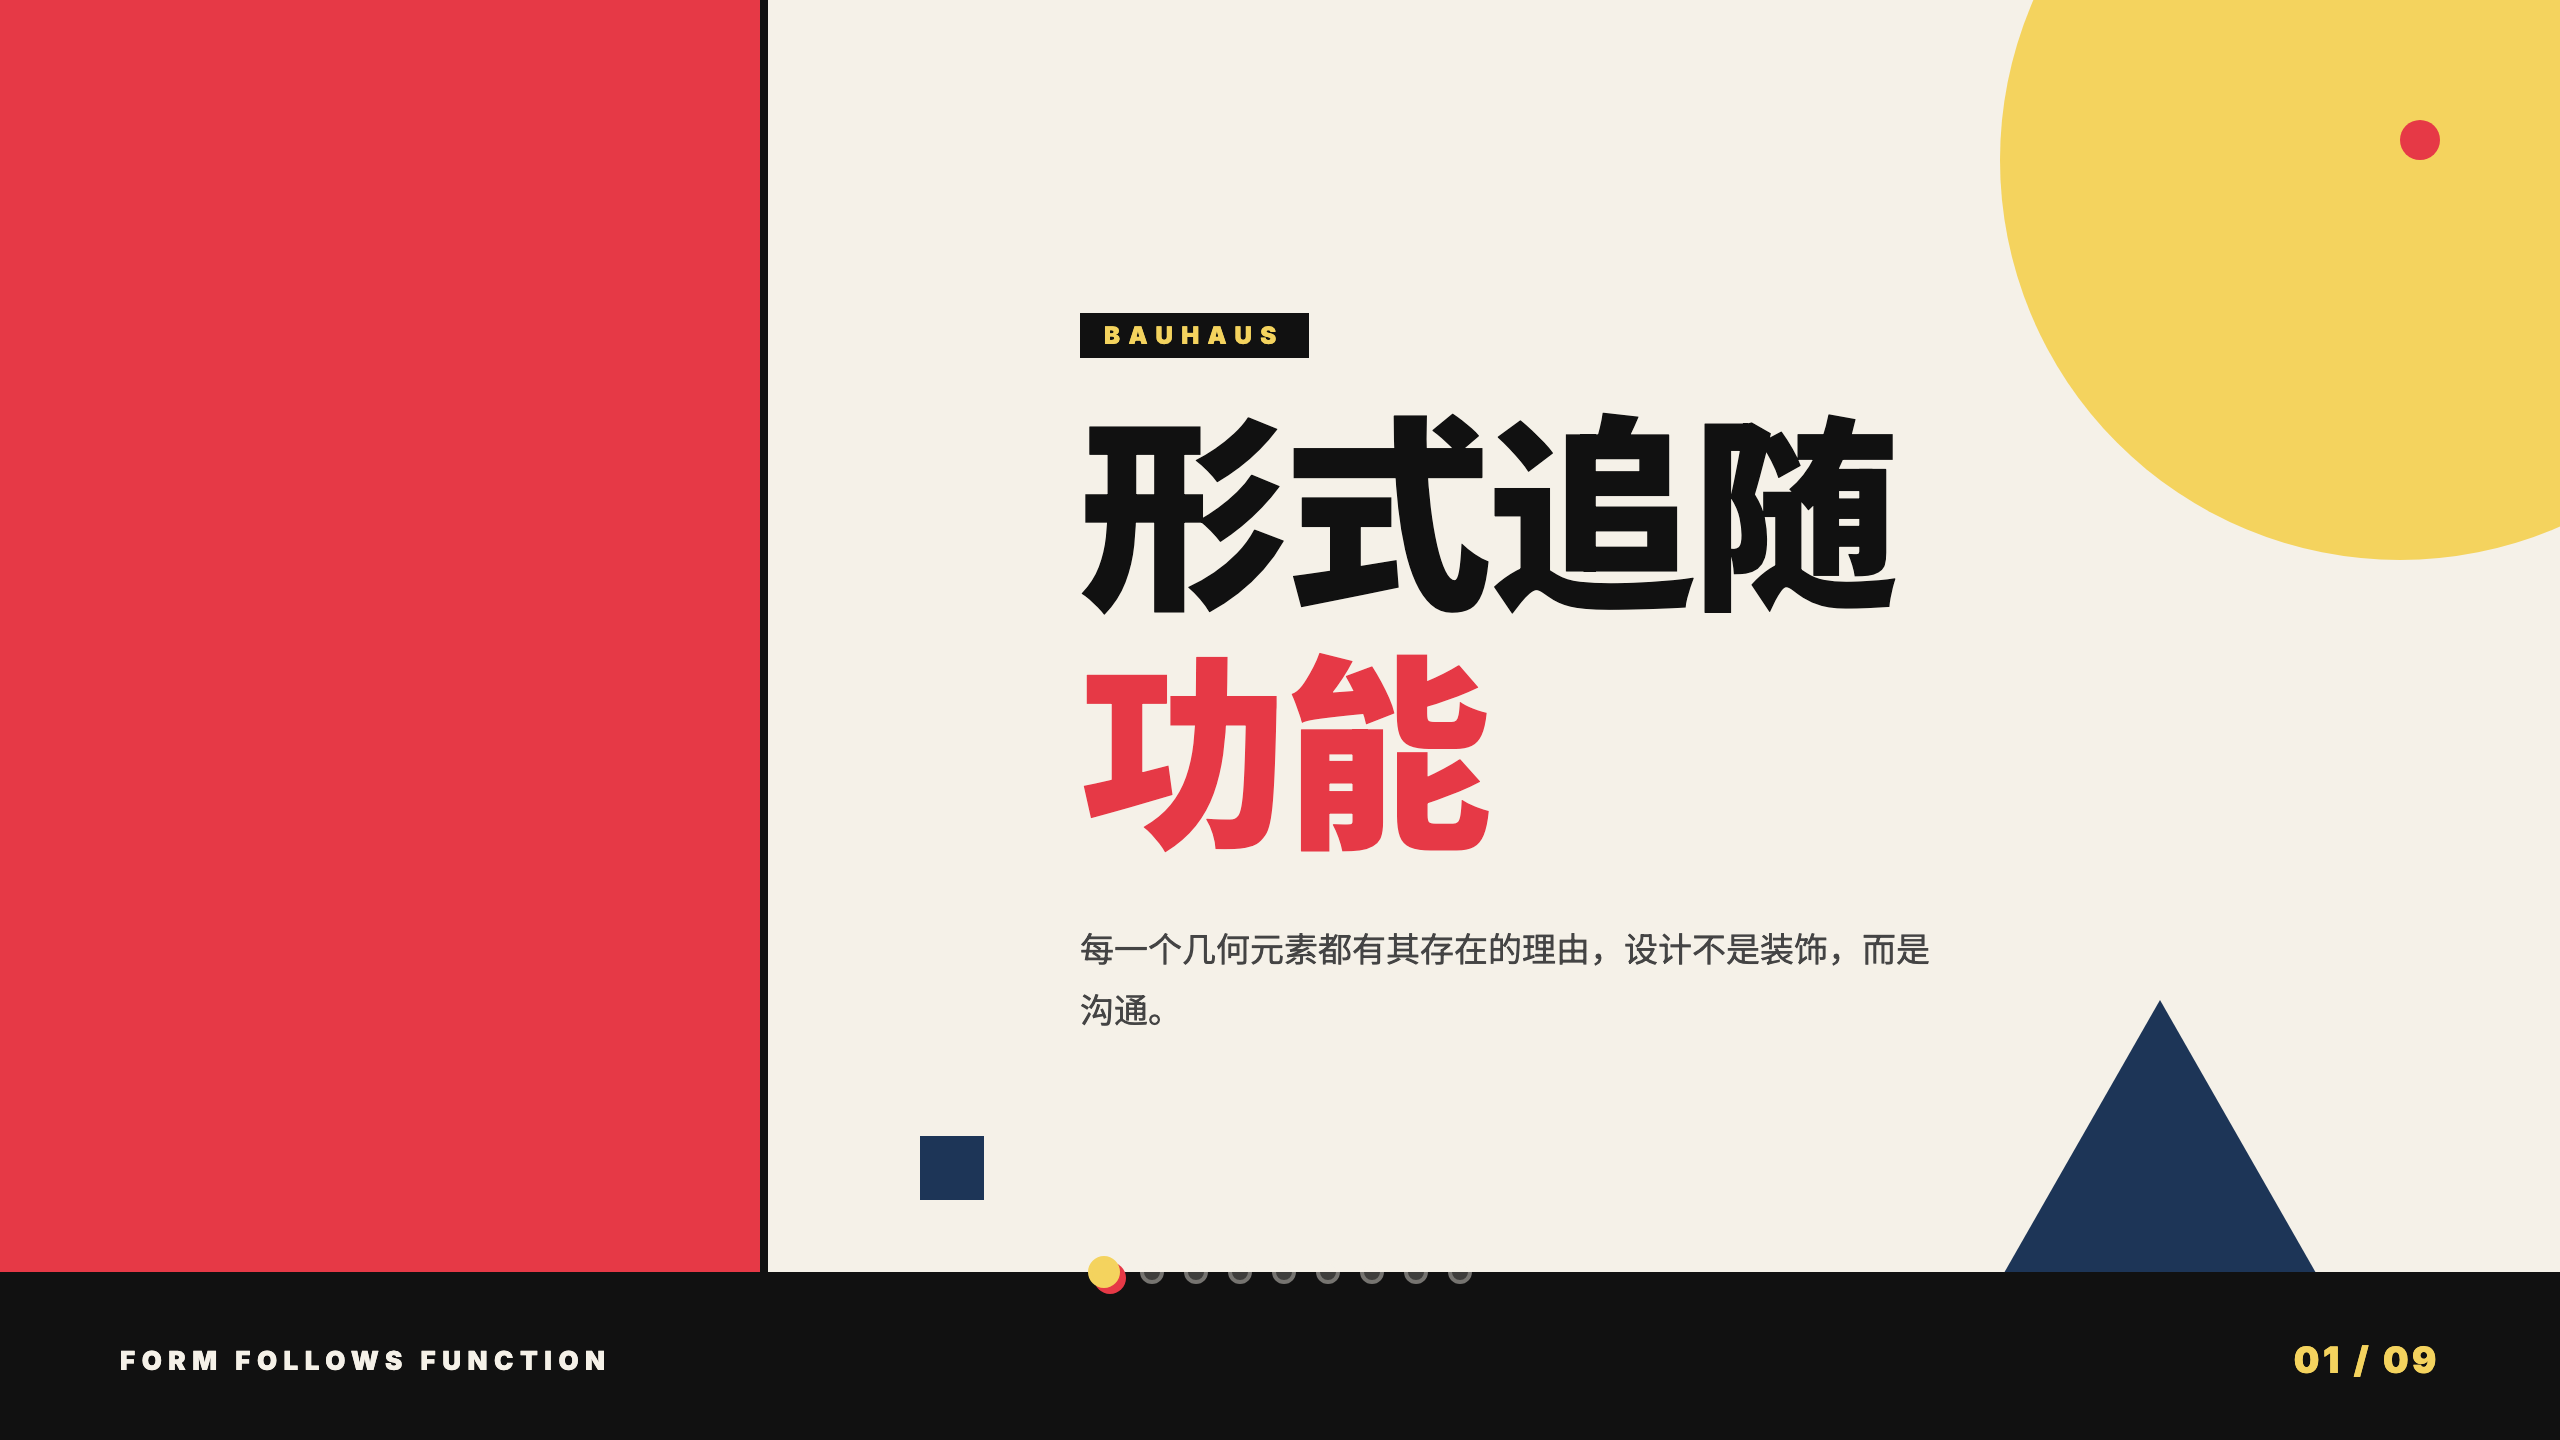
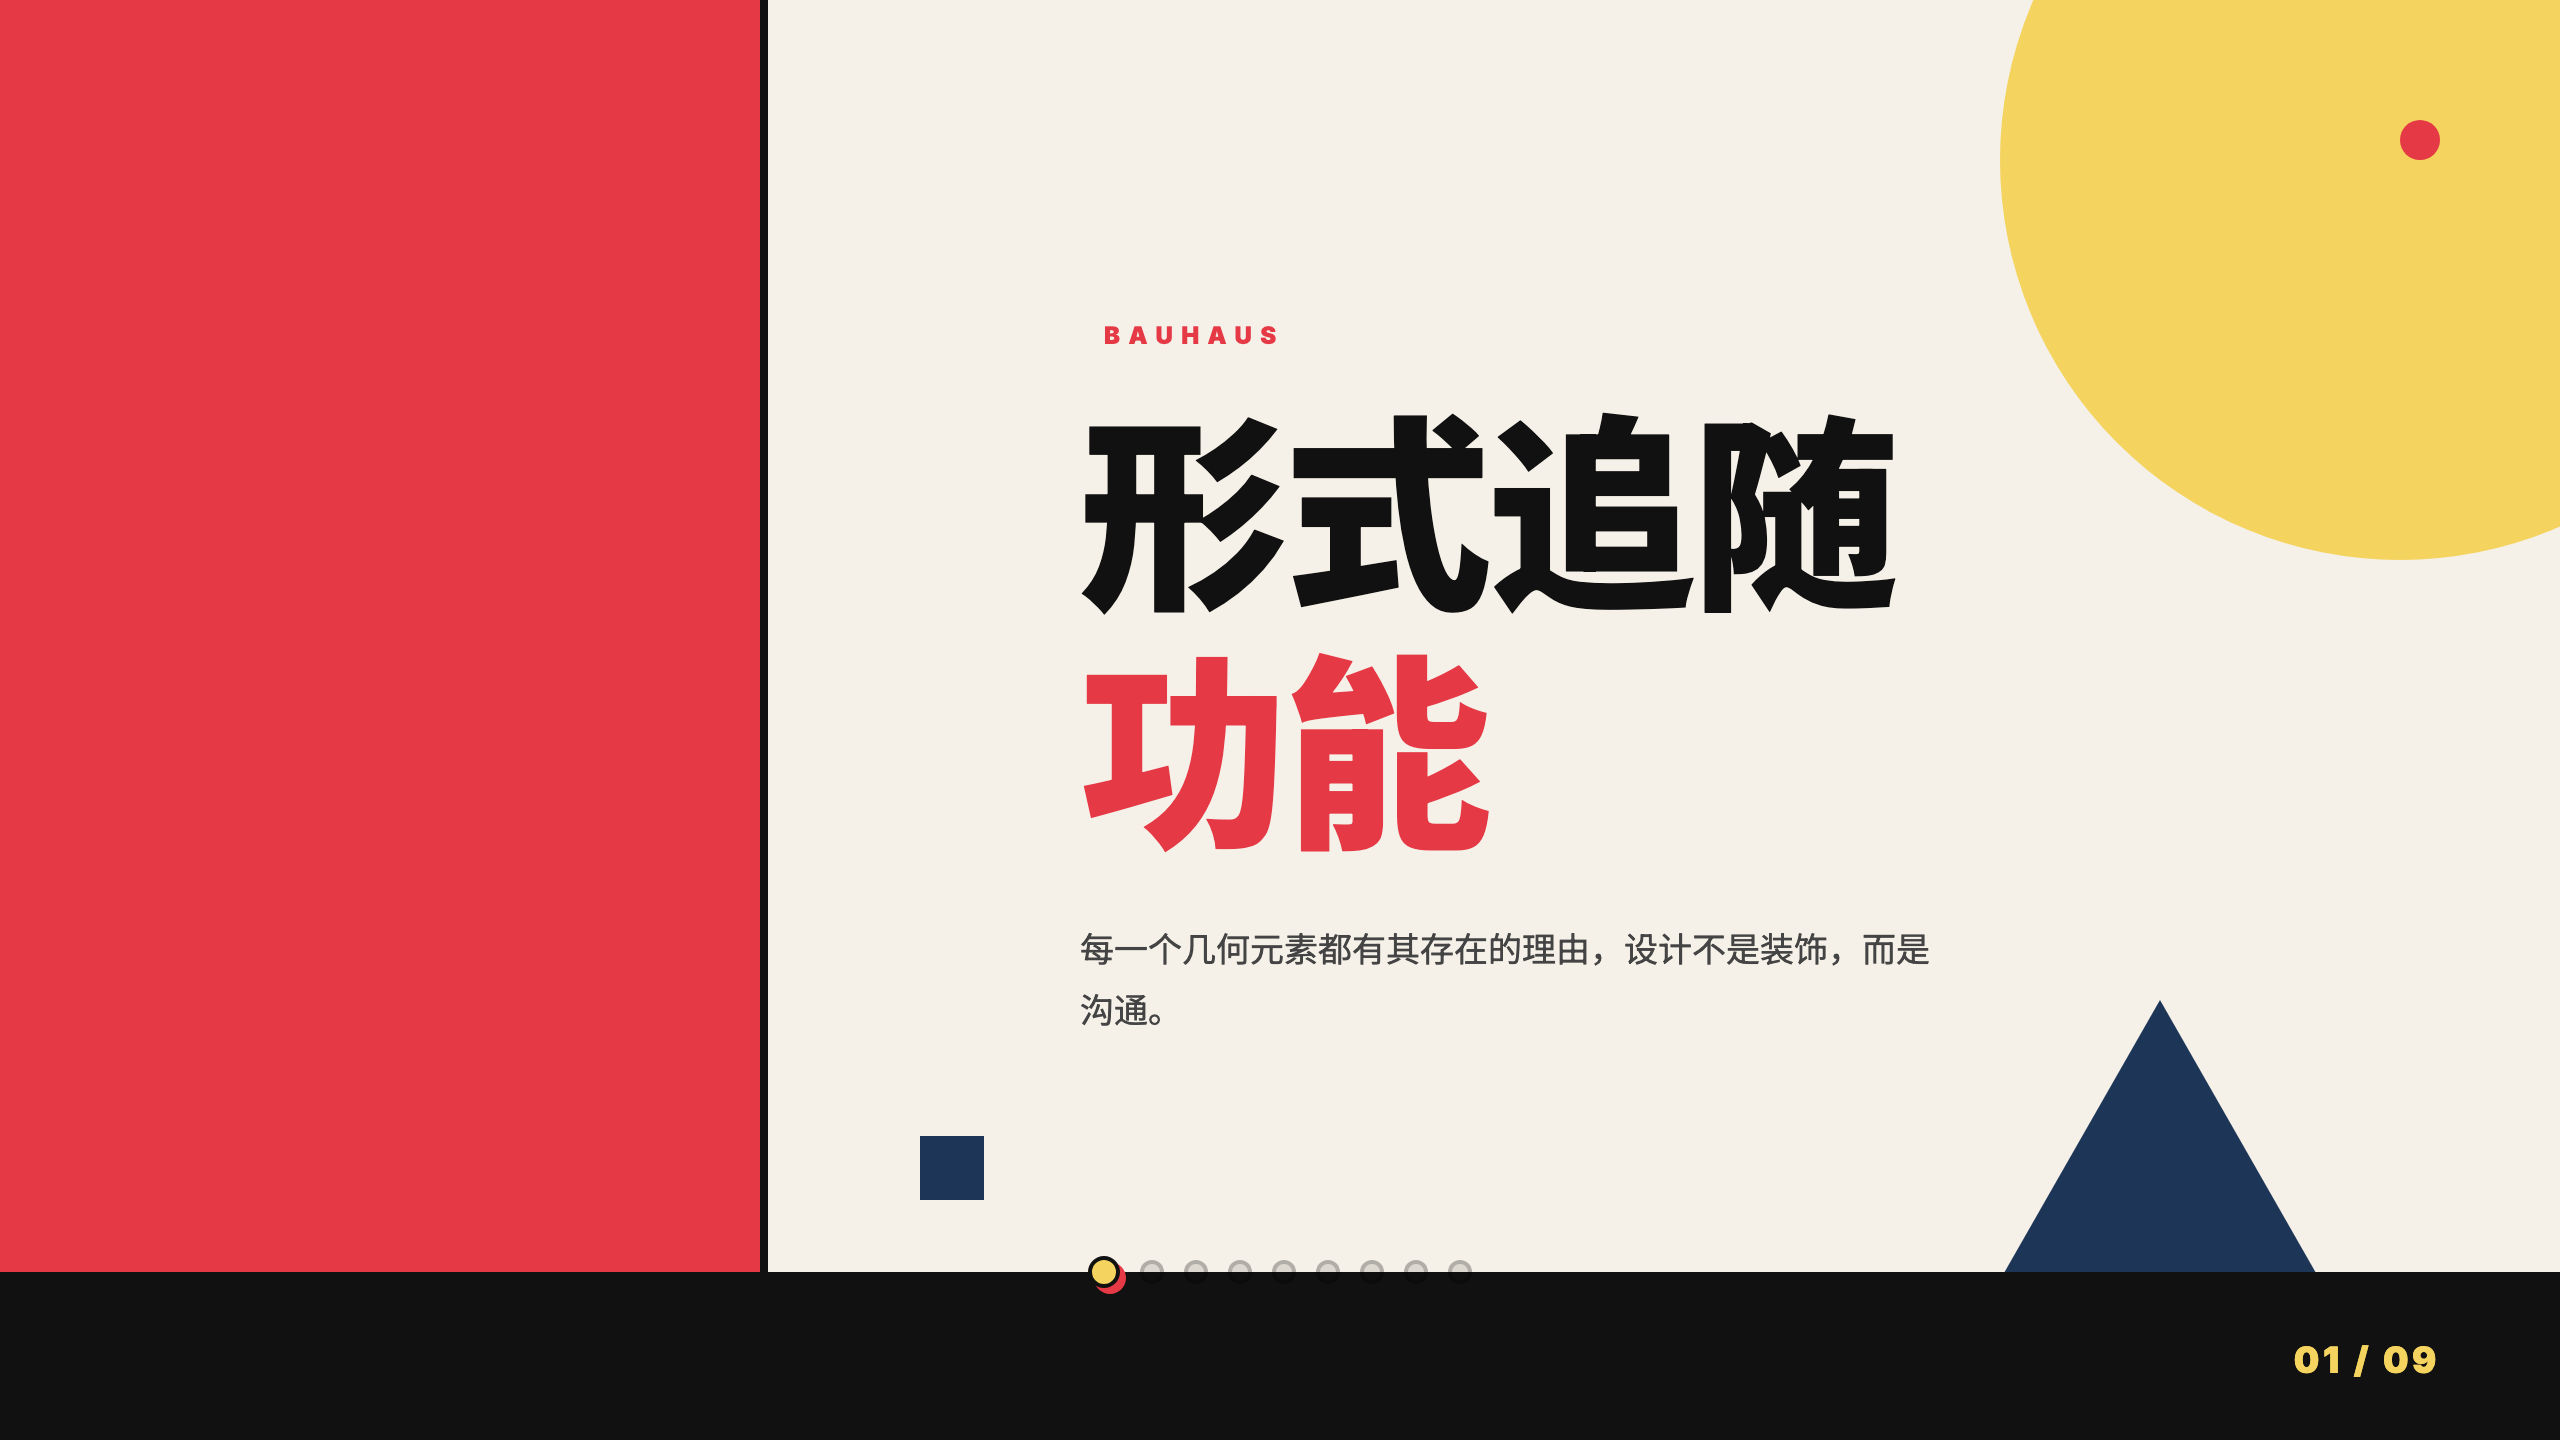
fix: remove progress bar color block separation — 5 templates now match slide bg (brutal/punk/tropic/nouveau/bauhaus), text/seg colors adjusted + add rule to AGENT_GUIDE

Changed region(s): [[0.0312, 0.9375, 0.25, 0.9688], [0.4375, 0.875, 0.5938, 0.9062], [0.4062, 0.2188, 0.5312, 0.25]]

diff --git a/templates/22-bauhaus/example.html b/templates/22-bauhaus/example.html
@@ -38,7 +38,7 @@
 
   /* Typography */
   .eyebrow { font-family: var(--font-display); font-size: 12px; font-weight: 900; letter-spacing: 0.35em; text-transform: uppercase; color: var(--black); margin-bottom: 24px; }
-  .eyebrow span { background: var(--black); color: var(--yellow); padding: 4px 12px; }
+  .eyebrow span { background: var(--paper); color: var(--red); padding: 4px 12px; }
   h1 { font-family: var(--font-display); font-size: 96px; font-weight: 900; color: var(--black); line-height: 1.15; letter-spacing: -0.02em; }
   h2 { font-family: var(--font-display); font-size: 44px; font-weight: 900; color: var(--black); line-height: 1.2; letter-spacing: -0.01em; }
   h3 { font-family: var(--font-display); font-size: 22px; font-weight: 900; color: var(--black); line-height: 1.2; }
@@ -47,15 +47,15 @@
 
   /* Bottom bar */
   .bottom-bar { position: absolute; bottom: 0; left: 0; right: 0; height: 60px; background: var(--black); z-index: 5; display: flex; align-items: center; justify-content: space-between; padding: 0 60px; }
-  .bottom-bar .bar-label { font-family: var(--font-display); font-size: 13px; font-weight: 900; letter-spacing: 0.25em; text-transform: uppercase; color: var(--paper); min-width: 200px; }
+  .bottom-bar .bar-label { font-family: var(--font-display); font-size: 13px; font-weight: 900; letter-spacing: 0.25em; text-transform: uppercase; color: var(--black); min-width: 200px; }
   .bottom-bar .bar-page { font-family: var(--font-display); font-size: 18px; font-weight: 900; letter-spacing: 0.1em; color: var(--yellow); }
   .title-slide .bottom-bar { height: 80px; }
 
   /* Progress strip */
   .progress-strip { position: absolute; top: -12px; left: 60px; right: 60px; height: 16px; display: flex; align-items: center; justify-content: center; gap: 0; z-index: 6; pointer-events: none; }
-  .progress-strip .seg { width: 12px; height: 12px; border-radius: 50%; background: rgba(245,241,232,0.2); border: 2px solid rgba(245,241,232,0.3); margin: 0 5px; transition: all 0.25s; }
-  .progress-strip .seg.past { background: var(--paper); border-color: var(--paper); }
-  .progress-strip .seg.current { background: var(--yellow); border-color: var(--yellow); width: 16px; height: 16px; box-shadow: 3px 3px 0 var(--red); }
+  .progress-strip .seg { width: 12px; height: 12px; border-radius: 50%; background: rgba(0,0,0,0.1); border: 2px solid rgba(0,0,0,0.2); margin: 0 5px; transition: all 0.25s; }
+  .progress-strip .seg.past { background: var(--black); border-color: var(--black); }
+  .progress-strip .seg.current { background: var(--yellow); border-color: var(--black); width: 16px; height: 16px; box-shadow: 3px 3px 0 var(--red); }
   .progress-strip .seg.seg-gap { margin-left: 5px; }
 
   /* Nav hint */

diff --git a/templates/13-punk/example.html b/templates/13-punk/example.html
@@ -18,7 +18,7 @@
     --mono: 'JetBrains Mono', monospace;
   }
   * { margin: 0; padding: 0; box-sizing: border-box; }
-  html, body { height: 100%; background: #111; font-family: var(--font); overflow: hidden }
+  html, body { height: 100%; background: var(--bg); font-family: var(--font); overflow: hidden }
   .deck { position: fixed; top: 0; left: 0; width: 100vw; height: 100vh; }
   .slide {
     position: absolute; top: 50%; left: 50%; width: 1280px; height: 720px; background: var(--bg); color: var(--fg);
@@ -156,7 +156,7 @@
   .progress-bar .pb-section {
     font-family: var(--font-mono); font-size: 12px; font-weight: 700;
     letter-spacing: 0.25em; text-transform: uppercase;
-    color: rgba(255,255,255,0.6); min-width: 180px;
+    color: rgba(0,0,0,0.55); min-width: 180px;
   }
   .progress-bar .pb-page {
     font-family: var(--font-mono); font-size: 16px; font-weight: 700;
@@ -168,14 +168,14 @@
   }
   .progress-strip .seg {
     width: 38px; height: 6px; border-radius: 0;
-    background: rgba(255,255,255,0.15);
-    border: 1px solid rgba(255,255,255,0.2);
+    background: rgba(0,0,0,0.1);
+    border: 1px solid rgba(0,0,0,0.2);
     margin: 0 4px; transition: all 0.25s;
     
   }
   .progress-strip .seg.past {
-    background: rgba(255,255,255,0.5);
-    border-color: rgba(255,255,255,0.5);
+    background: rgba(0,0,0,0.35);
+    border-color: rgba(0,0,0,0.35);
   }
   .progress-strip .seg.current {
     background: var(--yellow, #FFD600);

diff --git a/templates/14-tropic/example.html b/templates/14-tropic/example.html
@@ -158,13 +158,13 @@
     position: absolute; bottom: 0; left: 0; right: 0;
     height: 56px; display: flex; align-items: center; justify-content: space-between;
     padding: 0 60px; z-index: 50;
-    background: var(--cream, #FFF8F0);
+    background: var(--bg);
     border-top: none;
   }
   .progress-bar .pb-section {
     font-family: var(--font-sans); font-size: 12px; font-weight: 700;
     letter-spacing: 0.25em; text-transform: uppercase;
-    color: rgba(45,27,14,0.6); min-width: 180px;
+    color: rgba(255,255,255,0.6); min-width: 180px;
   }
   .progress-bar .pb-page {
     font-family: var(--font-sans); font-size: 16px; font-weight: 700;
@@ -176,14 +176,14 @@
   }
   .progress-strip .seg {
     width: 10px; height: 10px; border-radius: 50%;
-    background: rgba(45,27,14,0.12);
-    border: 2px solid rgba(45,27,14,0.2);
+    background: rgba(255,255,255,0.1);
+    border: 2px solid rgba(255,255,255,0.2);
     margin: 0 4px; transition: all 0.25s;
     
   }
   .progress-strip .seg.past {
-    background: rgba(45,27,14,0.4);
-    border-color: rgba(45,27,14,0.4);
+    background: rgba(255,255,255,0.4);
+    border-color: rgba(255,255,255,0.4);
   }
   .progress-strip .seg.current {
     background: var(--coral, #FF6B4A);

diff --git a/templates/08-brutal/example.html b/templates/08-brutal/example.html
@@ -154,13 +154,13 @@
     position: absolute; bottom: 0; left: 0; right: 0;
     height: 56px; display: flex; align-items: center; justify-content: space-between;
     padding: 0 60px; z-index: 50;
-    background: var(--black, #111);
+    background: var(--bg);
     border-top: none;
   }
   .progress-bar .pb-section {
     font-family: var(--font-sans); font-size: 12px; font-weight: 700;
     letter-spacing: 0.25em; text-transform: uppercase;
-    color: rgba(255,255,255,0.7); min-width: 180px;
+    color: rgba(0,0,0,0.55); min-width: 180px;
   }
   .progress-bar .pb-page {
     font-family: var(--font-sans); font-size: 16px; font-weight: 700;
@@ -172,14 +172,14 @@
   }
   .progress-strip .seg {
     width: 40px; height: 6px; border-radius: 0;
-    background: rgba(255,255,255,0.15);
-    border: 1px solid rgba(255,255,255,0.25);
+    background: rgba(0,0,0,0.1);
+    border: 1px solid rgba(0,0,0,0.2);
     margin: 0 4px; transition: all 0.25s;
     
   }
   .progress-strip .seg.past {
-    background: rgba(255,255,255,0.5);
-    border-color: rgba(255,255,255,0.5);
+    background: rgba(0,0,0,0.35);
+    border-color: rgba(0,0,0,0.35);
   }
   .progress-strip .seg.current {
     background: var(--yellow, #FFD600);

diff --git a/templates/18-nouveau/example.html b/templates/18-nouveau/example.html
@@ -155,7 +155,7 @@
     position: absolute; bottom: 0; left: 0; right: 0;
     height: 56px; display: flex; align-items: center; justify-content: space-between;
     padding: 0 60px; z-index: 50;
-    background: var(--cream, #F8F4EB);
+    background: var(--bg);
     border-top: none;
   }
   .progress-bar .pb-section {

diff --git a/AGENT_GUIDE.md b/AGENT_GUIDE.md
@@ -477,10 +477,11 @@ A progress bar that meets all functional specs can still be ugly. These rules pr
 
 **Hard rules (never violate):**
 1. **No full-width border lines on light backgrounds.** A `border-top` spanning the entire slide width creates a visible horizontal "stiff line" that cuts across the design — even 1px solid is noticeable. On light/cream/white backgrounds where the progress bar background matches the slide, use `border-top: none`. Only use a border on dark backgrounds where it creates necessary separation (max `1px solid rgba(...,0.2)`). Heavy borders (2px+ solid) are never acceptable.
-2. **Progress segments must match the template's primary shape language.** If the template uses circles (soft-space, light-as-air), use circles. If it uses sharp squares (brutal, punk), use squares. Never import a shape that doesn't exist elsewhere in the template.
-3. **Progress bar visual weight ≤ 15% of content area.** The progress bar is navigation chrome, not a design feature. It should be noticed when needed, invisible when not.
-4. **Colors must come from the template's palette.** No generic gray. Use the template's accent color for "current", muted foreground for "past", and a very faint version of foreground for "future".
-5. **Typography must match.** Section label and page number must use fonts already defined in the template (display font for page number if the template has one, body font for section label).
+2. **Progress bar background MUST match the slide background.** Never use a different solid color for the progress bar container (e.g., cream bar on a beige slide, black bar on a white slide). This creates an ugly horizontal "color block" that splits the slide. Set `background: var(--bg)` or `background: transparent`. If text legibility is an issue, change the text color — do NOT add a contrasting background band.
+3. **Progress segments must match the template's primary shape language.** If the template uses circles (soft-space, light-as-air), use circles. If it uses sharp squares (brutal, punk), use squares. Never import a shape that doesn't exist elsewhere in the template.
+4. **Progress bar visual weight ≤ 15% of content area.** The progress bar is navigation chrome, not a design feature. It should be noticed when needed, invisible when not.
+5. **Colors must come from the template's palette.** No generic gray. Use the template's accent color for "current", muted foreground for "past", and a very faint version of foreground for "future".
+6. **Typography must match.** Section label and page number must use fonts already defined in the template (display font for page number if the template has one, body font for section label).
 
 **Soft rules (strongly recommended):**
 - On light backgrounds, use a transparent or matching background with NO border line — let the segments and text be the only visible elements. On dark backgrounds, a semi-transparent dark bar (rgba(0,0,0,0.5-0.8)) with a very subtle border (max rgba 0.2) works well.
